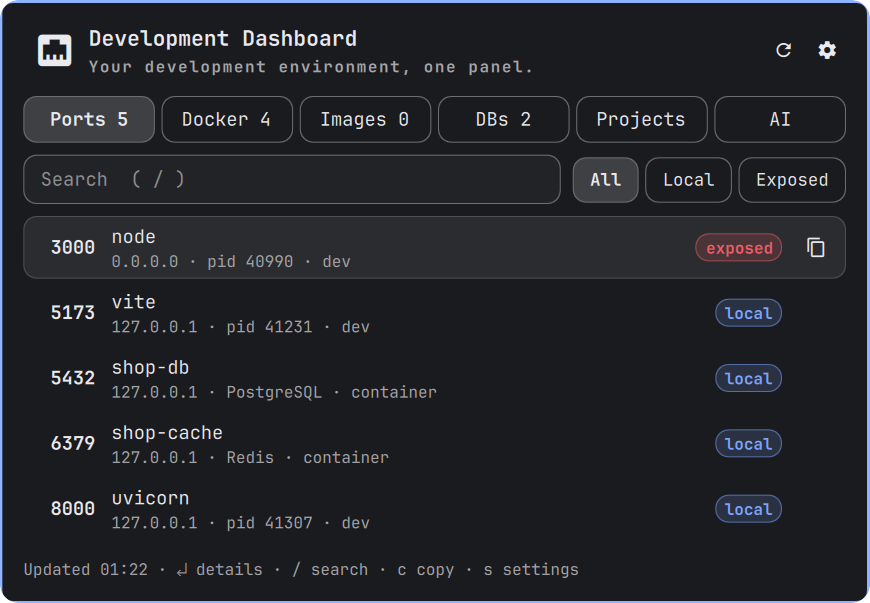
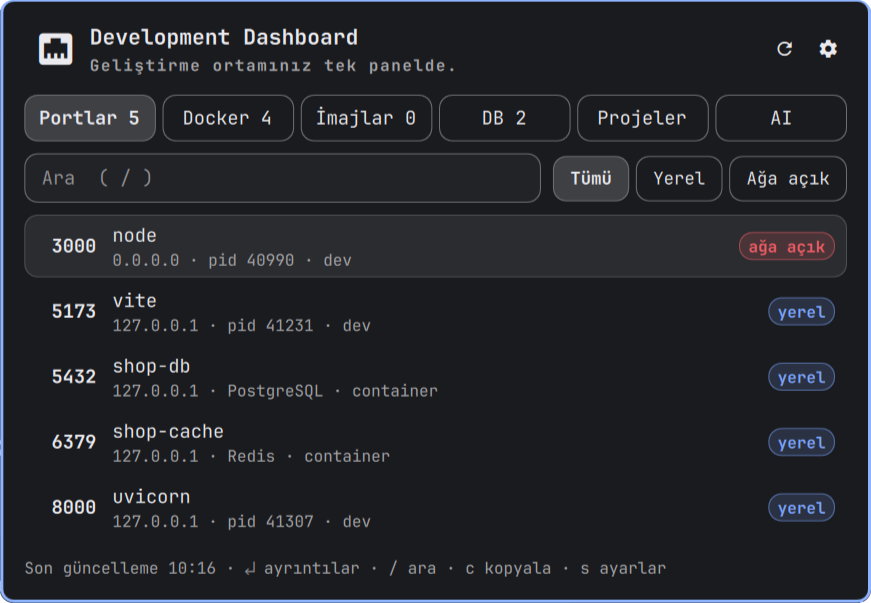
docs: update the installation URL and panel preview

diff --git a/README.md b/README.md
@@ -20,7 +20,7 @@ default; turn **Management actions** off in settings for a strictly read-only pa
 ## Install
 
 ```bash
-omarchy plugin add https://github.com/batuhanmeral/omarchy-development-dashboard --enable
+omarchy plugin add https://github.com/batuhanmeral/omarchy-development-dashboard.git --enable
 ```
 
 Omarchy clones the repository into
@@ -170,10 +170,6 @@ make fix     # apply Ruff and qmlformat formatting
 
 To try a change in the running shell, copy the working tree over the installed plugin
 directory and run `omarchy restart shell`.
-
-Detailed design, security analysis, migration notes, manual acceptance scenarios and
-marketplace notes are kept in `.docs/`. They are written in Turkish and not tracked in
-Git.
 
 ## License
 
